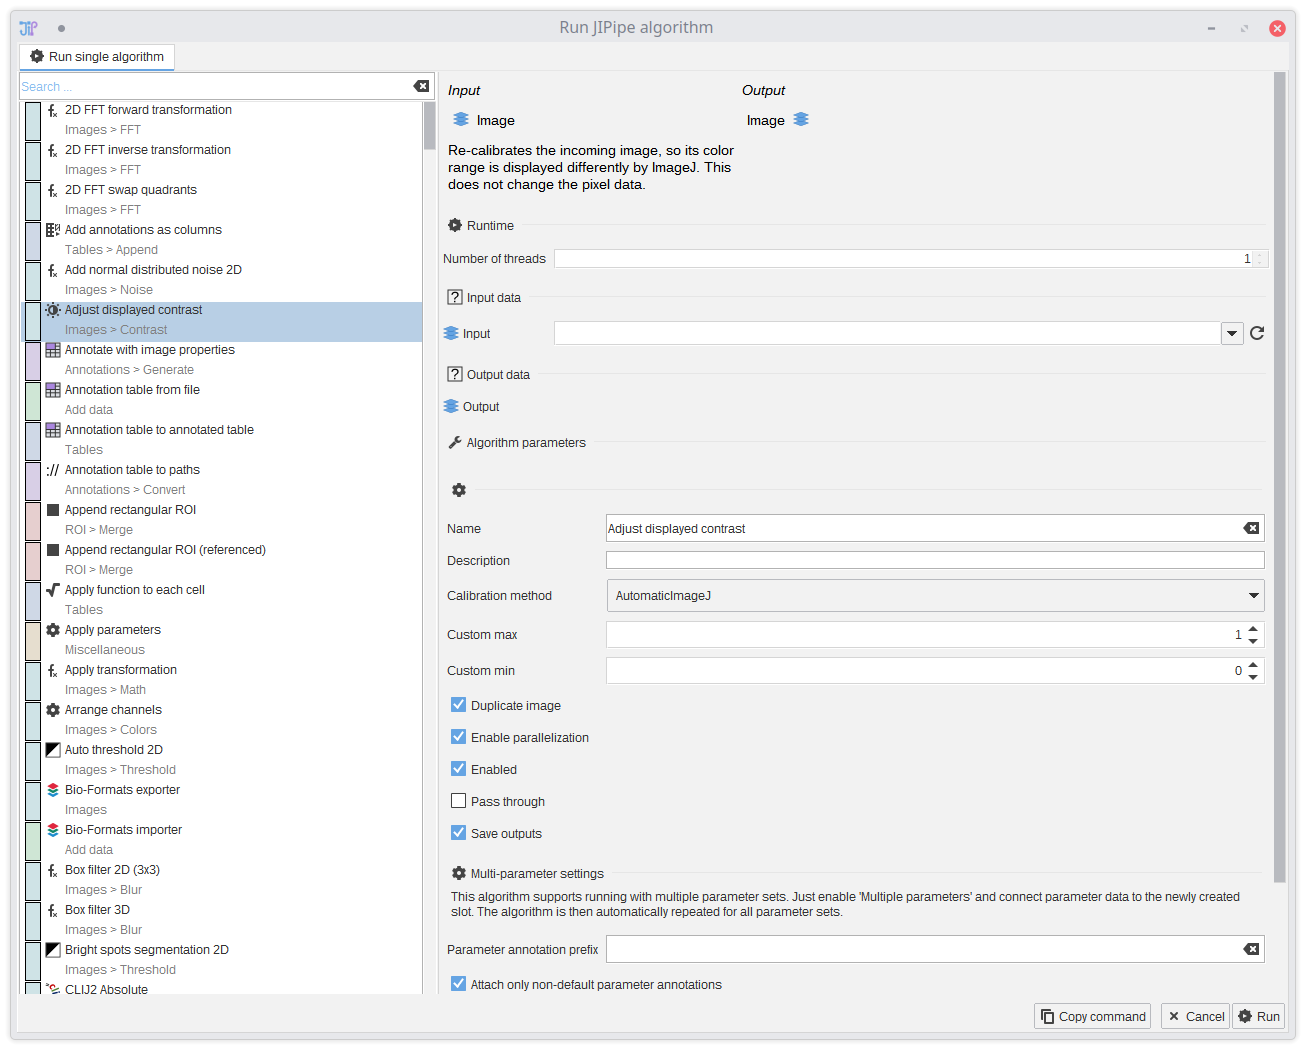
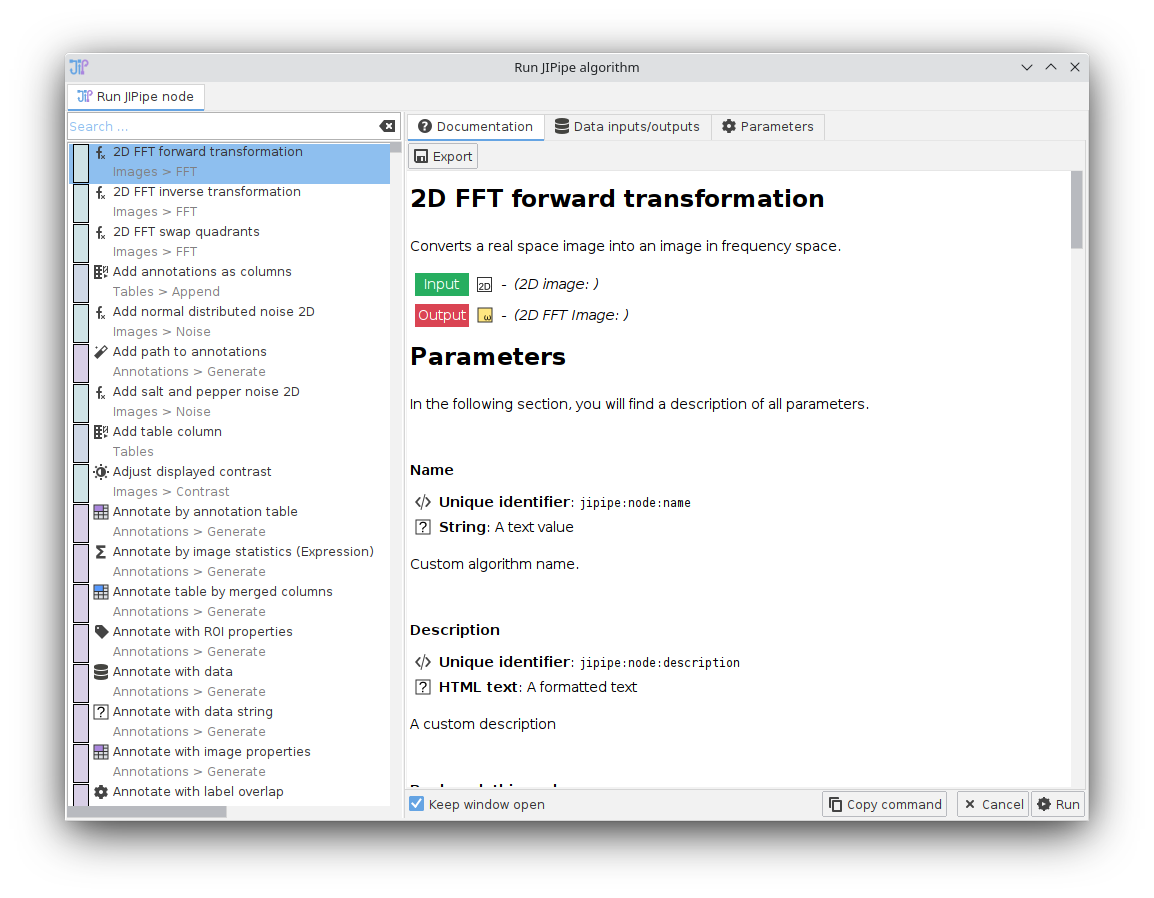
* updated to new JIPipe version

Changed region(s): [[0.0, 0.0, 0.9983, 0.9978], [0.9359, 0.0, 0.9983, 0.0312]]

diff --git a/content/documentation/imagej-integration.md b/content/documentation/imagej-integration.md
@@ -23,7 +23,7 @@ There are two ways JIPipe integrates back into ImageJ:
 1. You can run a pipeline project from a macro/command
 2. You can run JIPipe algorithms from a macro/command if the slot data types are supported by ImageJ
 
-## Running a pipeline
+# Running a pipeline
 
 You can run an JIPipe pipeline via the command `Plugins > JIPipe > Run JIPipe project`. It will ask you
 the project file and the output directory.
@@ -49,24 +49,79 @@ You can also run JIPipe in headless-mode just like any ImageJ2 algorithm:
 While JIPipe works in Headless-mode, some ImageJ algorithms don't. You will get an error message if an algorithm requires a graphical environment.
 {{% /notice %}}
 
-## Running a single algorithm
+# Running a single node
 
 JIPipe algorithms can be run from ImageJ macros/commands if the slot data types are compatible with ImageJ.
 By default, this includes any image data type, result tables, and regions of interest (via ROIManager).
-If you run the command `Plugins > JIPipe > Run JIPipe algorithm`, a dialog with all available algorithms,
-parameters, and more information is shown.
-
-A difference to the parameter panel of an algorithm within the graph editor UI is that you have to select the
-input image.
+On running the command `Plugins > JIPipe > Run JIPipe algorithm`, a dialog will open that will let you select a JIPipe node 
+and run it within ImageJ.
 
 ![Single algorithm setup dialog](/img/documentation/run-single-algorithm.png)
+
+## Providing inputs
+
+The JIPipe node is provided with inputs via an *importer* that transforms non-JIPipe data into items that can be handled by JIPipe. 
+We advise to review the settings by selecting the **Data inputs/outputs** tab and switching to the **Inputs** view. The editor will display a preview of the JIPipe node and a list of inputs and related settings.
+
+You can change the importer by clicking the edit (pen) button at the top right corner of each input. Based on the selected importer, the settings within the box change to, for example, allow to select an image window. 
+
+{{% notice info %}}
+If you want to specify more advanced data with text and data annotations, choose the "Data table import" option. You have to provide a path to a valid data table directory in the "Name" field.
+{{% /notice %}}
+
+![Single algorithm setup dialog](/img/documentation/run-single-algorithm-input.png)
 
 Output data is created according to the *slot name*. For example if the output slot name is `Output`,
 the created image window will also be named `Output`.
 
+## Exporting outputs
+
+Any JIPipe output is exported back into ImageJ.
+Outputs are managed in a similar manner to inputs by switching to the **Outputs** tab. Here, you can select the type of exporter and change various export parameters.
+
 {{% notice info %}}
-Just as in a graph, images are converted automatically to the data type specified by the algorithm.
+If you want to export data as JIPipe data table, select the "Data table export" exporter item. If the name contains an absolute path, the data table will be written into it. Otherwise, JIPipe will create a temporary directory where outputs are written. The temporary directory is changeable in the JIPipe settings.
 {{% /notice %}}
+
+![Single algorithm setup dialog](/img/documentation/run-single-algorithm-output.png)
+
+## Adding/removing slots
+
+Some nodes allow the modification of their slots. To add new slots, click the **+** button in the node preview at the bottom view. 
+To edit or delete a slot, click the arrow button next to the slot and select the appropriate operation.
+
+![Single algorithm setup dialog](/img/documentation/run-single-algorithm-edit-nodes.png)
+
+## ImageJ macro support
+
+To run the command via a macro, run:
+
+```
+run("Run JIPipe algorithm", "nodeId=<Algorithm>, parameters=<Parameters>, inputs=<Inputs>, outputs=<Outputs>")
+```
+
+The algorithm ID can be looked up via the plugin manager.
+ are provided as string in [JSON](https://json.org/) format.
+The JSON data should have following structure:
+
+The parameters, inputs, and outputs are provided in JSON format:
+
+* `parameters` contains the node parameters. These can be obtained by copying a node into the clipboard. You can leave out unused parameters to let JIPipe fill in the default value
+* `inputs` assigns to each input slot the importer parameters
+* `outputs` assigns to each output the output parameters
+
+{{% notice tip %}}
+Use the "Copy command" button in the "Run JIPipe algorithm" GUI command to quickly create a valid macro for your parameters.
+{{% /notice %}}
+
+## Creating an ImageJ menu entry for a node
+
+If you are a developer of a JIPipe node (Java only) and want to provide your node as separate entry in the ImageJ menu,
+you can use our Java API to create custom SciJava commands that provide a similar UI to the single algorithm run.
+You just have to inherit from [JIPipeRunCustomAlgorithmCommand](/apidocs/org/hkijena/jipipe/JIPipeRunCustomAlgorithmCommand.html) and provide the
+constructor with the node ID. Then add the [Plugin](https://javadoc.scijava.org/SciJava/org/scijava/plugin/Plugin.html) annotation just as with any SciJava command.
+
+## Currently known issues
 
 {{% notice warning %}}
 There may be issues if multiple ROI or result table outputs are generated.
@@ -77,27 +132,3 @@ JIPipe will merge multiple ROI List data items into one Results Table.
 There can be issues using the macro recorder depending on which ImageJ algorithm is executed.
 This issue is especially prevalent in ImageJ macro algorithm nodes.
 {{% /notice %}}
-
-To run the command via a macro, run:
-
-```
-run("Run JIPipe algorithm", "nodeId=<Algorithm>, parameters=<Parameters>")
-```
-
-The algorithm ID can be looked up via the plugin manager.
-Parameters are provided as string in [JSON](https://json.org/) format.
-The JSON data should have following structure:
-
-* (Optional) An object `parameters` that contains the algorithm parameters. They are equal to the parameters saved in an JIPipe project file. We recommend to use the `Copy command` button to obtain the parameters. If you leave out parameters, the default value is assumed.
-* (Optional) An object `add-input` that contains additional input [slot definitions]({{< ref "/documentation-json-api/slot-definition" >}}). The entry keys are the slot names.
-* (Optional) An object `add-output` that contains additional output [slot definitions]({{< ref "/documentation-json-api/slot-definition" >}}). The entry keys are the slot names.
-* (Optional) An object `input`. Entry keys correspond to the slot name. The entry value is a string that corresponds to the Window name that contains the data. Only required for image data types, as JIPipe accesses the global ROI manager and global result table.
-
-{{% notice tip %}}
-Use the "Copy command" button in the "Run JIPipe algorithm" GUI command to quickly create a valid macro for your parameters.
-{{% /notice %}}
-
-If you are a developer of a JIPipe node (Java only) and want to provide your node as separate entry in the ImageJ menu,
-you can use our Java API to create custom SciJava commands that provide a similar UI to the single algorithm run.
-You just have to inherit from [JIPipeRunCustomAlgorithmCommand](/apidocs/org/hkijena/jipipe/JIPipeRunCustomAlgorithmCommand.html) and provide the
-constructor with the node ID. Then add the [Plugin](https://javadoc.scijava.org/SciJava/org/scijava/plugin/Plugin.html) annotation just as with any SciJava command.
